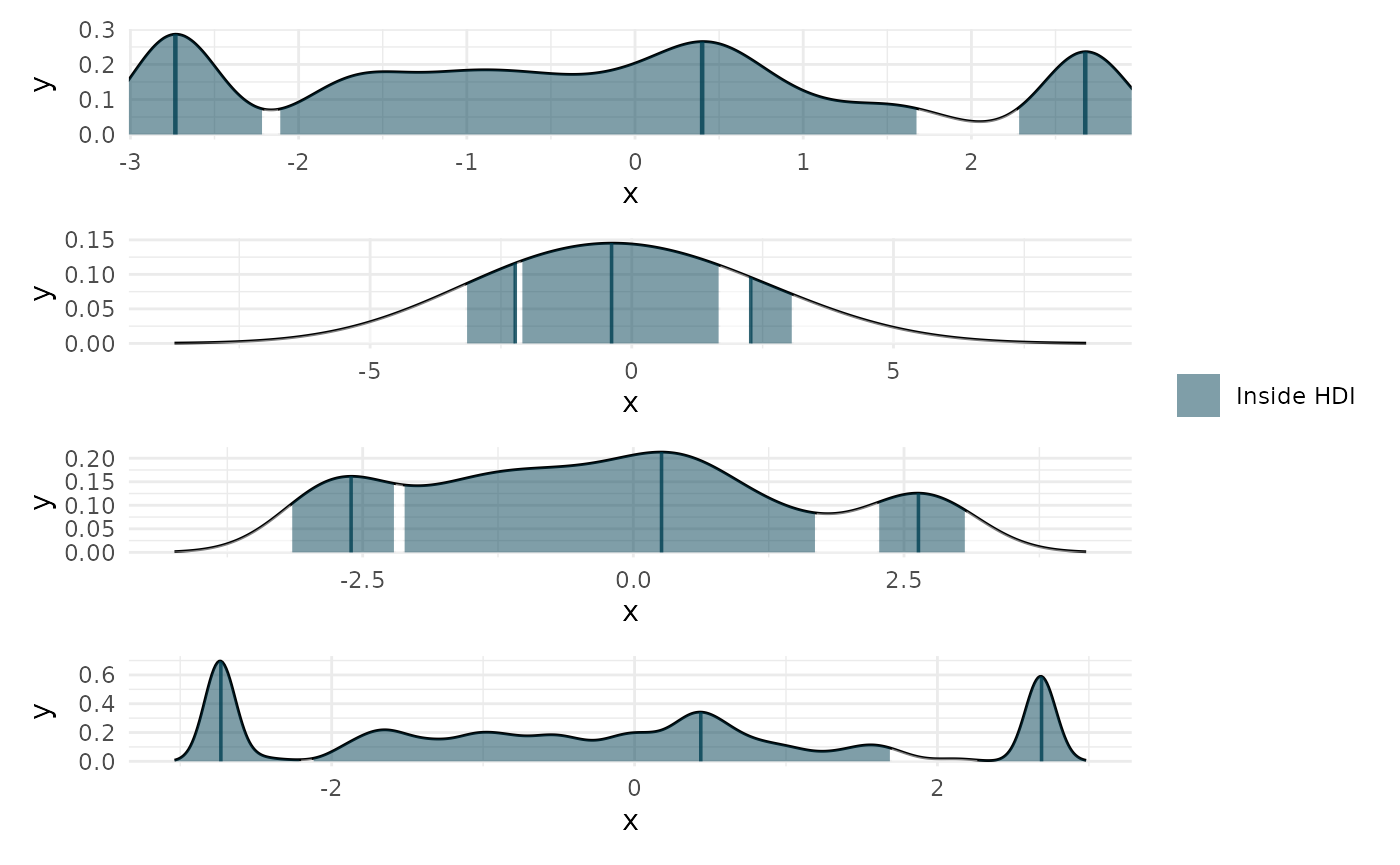
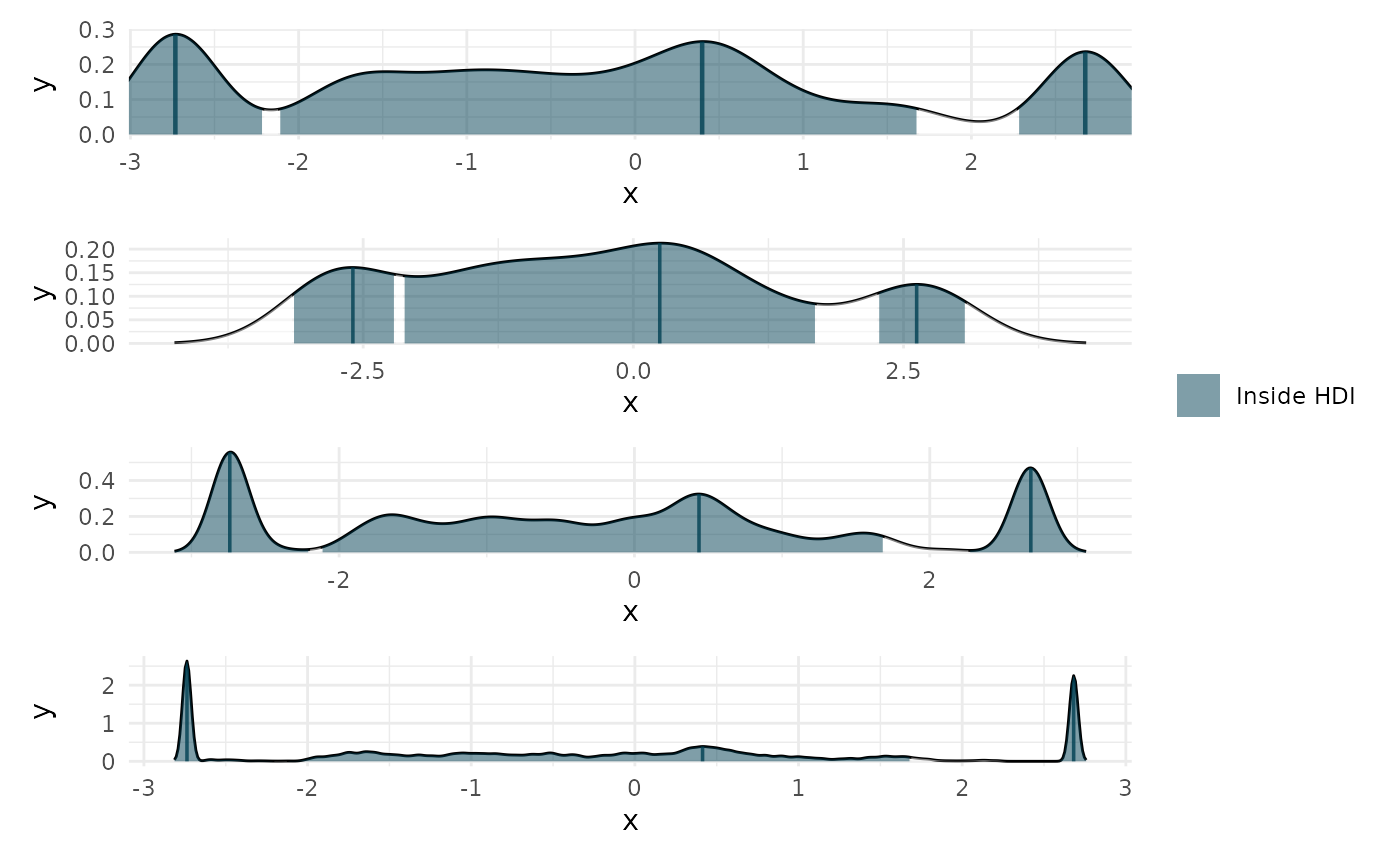
update

diff --git a/docs/articles/finding-plateaus.html b/docs/articles/finding-plateaus.html
@@ -324,7 +324,7 @@ B"</span>, guides <span class="op">=</span> <span class="st">"collect"</span><sp
 <a href="#two-other-views" class="anchor"></a>Two other views</h4>
 <p>You can set a constrained range, and wether to use the mode or the median within each chunk of the HPDI.</p>
 <div class="sourceCode" id="cb13"><pre class="downlit">
-<span class="fu"><a href="https://rdrr.io/r/graphics/plot.html">plot</a></span><span class="op">(</span><span class="va">max_p</span>, range <span class="op">=</span> <span class="fu"><a href="https://rdrr.io/r/base/c.html">c</a></span><span class="op">(</span><span class="fl">0</span>, <span class="fl">.15</span><span class="op">)</span><span class="op">)</span> <span class="op">+</span> 
+<span class="fu"><a href="https://rdrr.io/r/graphics/plot.html">plot</a></span><span class="op">(</span><span class="va">max_p</span>, range <span class="op">=</span> <span class="fu"><a href="https://rdrr.io/r/base/c.html">c</a></span><span class="op">(</span><span class="fl">0</span>, <span class="fl">.25</span><span class="op">)</span><span class="op">)</span> <span class="op">+</span> 
 <span class="fu"><a href="https://rdrr.io/r/graphics/plot.html">plot</a></span><span class="op">(</span><span class="va">max_p</span>, range <span class="op">=</span> <span class="fu"><a href="https://rdrr.io/r/base/c.html">c</a></span><span class="op">(</span><span class="fl">0</span>, <span class="fl">.15</span><span class="op">)</span>, mode <span class="op">=</span> <span class="cn">FALSE</span><span class="op">)</span> <span class="op">+</span> 
   <span class="fu">patchwork</span><span class="fu">::</span><span class="fu"><a href="https://patchwork.data-imaginist.com/reference/plot_layout.html">plot_layout</a></span><span class="op">(</span>guides <span class="op">=</span> <span class="st">'collect'</span><span class="op">)</span></pre></div>
 <p><img src="finding-plateaus_files/figure-html/unnamed-chunk-7-1.png" width="700"></p>
@@ -346,7 +346,7 @@ B"</span>, guides <span class="op">=</span> <span class="st">"collect"</span><sp
 <span class="co">#&gt; [1] 0.95</span>
 <span class="fu"><a href="https://rdrr.io/r/graphics/plot.html">plot</a></span><span class="op">(</span><span class="va">deriv_b</span>, deriv <span class="op">=</span> <span class="cn">FALSE</span><span class="op">)</span> <span class="op">+</span> 
   <span class="fu"><a href="https://ggplot2.tidyverse.org/reference/coord_cartesian.html">coord_cartesian</a></span><span class="op">(</span>x <span class="op">=</span> <span class="fu"><a href="https://rdrr.io/r/base/c.html">c</a></span><span class="op">(</span><span class="fl">0</span>, <span class="fl">1</span><span class="op">)</span><span class="op">)</span> <span class="op">+</span> 
-<span class="fu"><a href="https://rdrr.io/r/graphics/plot.html">plot</a></span><span class="op">(</span><span class="va">min_p</span><span class="op">)</span> <span class="op">+</span> 
+<span class="fu"><a href="https://rdrr.io/r/graphics/plot.html">plot</a></span><span class="op">(</span><span class="va">min_p</span>, adjust <span class="op">=</span> <span class="fl">1.5</span><span class="op">)</span> <span class="op">+</span> 
   <span class="fu"><a href="https://ggplot2.tidyverse.org/reference/coord_cartesian.html">coord_cartesian</a></span><span class="op">(</span>x <span class="op">=</span> <span class="fu"><a href="https://rdrr.io/r/base/c.html">c</a></span><span class="op">(</span><span class="fl">0</span>, <span class="fl">1</span><span class="op">)</span><span class="op">)</span> <span class="op">+</span> 
   <span class="fu">patchwork</span><span class="fu">::</span><span class="fu"><a href="https://patchwork.data-imaginist.com/reference/plot_layout.html">plot_layout</a></span><span class="op">(</span>design <span class="op">=</span> <span class="st">"
 A
